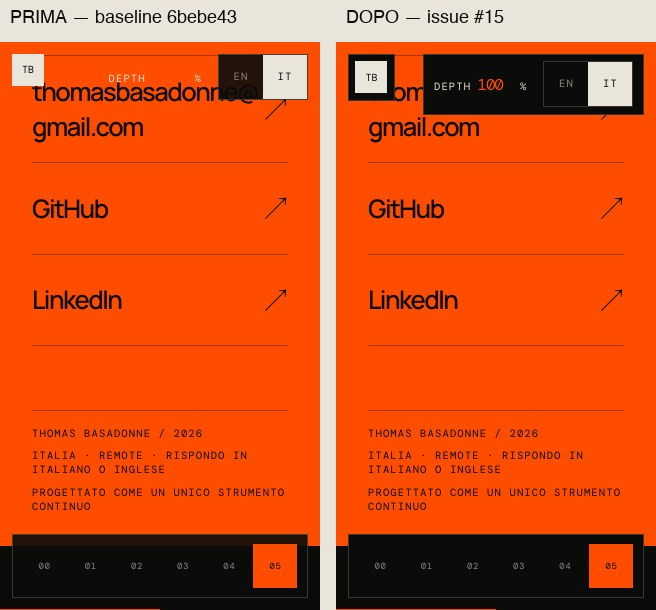
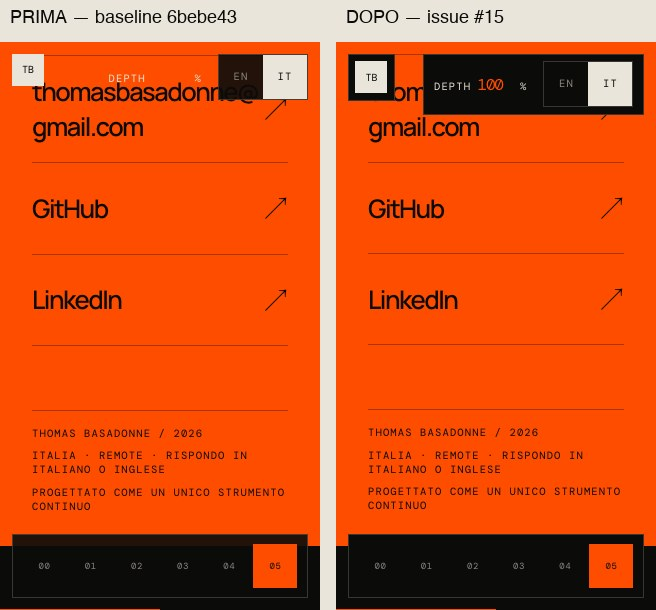
fix(hud): [verified] cover Linux colors and fallback layout

diff --git a/tests/e2e/portfolio.spec.ts b/tests/e2e/portfolio.spec.ts
@@ -6,6 +6,17 @@ async function bypassEntry(page: Page) {
   await page.addInitScript(() => window.sessionStorage.setItem("tb:entry-seen", "1"));
 }
 
+async function scrollToEnd(page: Page) {
+  await expect(page.locator(".hud__readout")).toBeVisible();
+  await page.evaluate(async () => {
+    // Let hydration's fragment navigation and optional font metrics settle first.
+    // Otherwise WebKit can replay #contact after our intentional bottom scroll.
+    await document.fonts.ready;
+    await new Promise<void>((resolve) => requestAnimationFrame(() => requestAnimationFrame(() => resolve())));
+    window.scrollTo({ top: document.body.scrollHeight, behavior: "instant" });
+  });
+}
+
 async function expectNoHorizontalOverflow(page: Page) {
   const overflow = await page.evaluate(
     () => document.documentElement.scrollWidth - document.documentElement.clientWidth,
@@ -283,7 +294,7 @@ for (const locale of ["en", "it"]) {
       await expectHudGeometry(page);
       await expectHudContrast(page, info, label);
     }
-    await page.evaluate(() => window.scrollTo({ top: document.body.scrollHeight, behavior: "instant" }));
+    await scrollToEnd(page);
     await expect(page.locator(".hud__readout strong")).toHaveText("100");
     for (const selector of [".chapter-nav a[href='#contact']", ".hud .lang-switch button[aria-pressed='false']", ".hud__identity"]) {
       const control = page.locator(selector);
@@ -310,13 +321,26 @@ for (const viewport of [
     await page.emulateMedia({ reducedMotion: "reduce" });
     await bypassEntry(page);
     await page.goto("/?lang=it#contact");
-    await page.evaluate(() => window.scrollTo({ top: document.body.scrollHeight, behavior: "instant" }));
+    await scrollToEnd(page);
     await expect(page.locator(".hud__readout strong")).toHaveText("100");
     await expectNoHorizontalOverflow(page);
     await expectHudGeometry(page);
     await expectHudContrast(page, info, `contact-${viewport.width}`);
   });
 }
+
+test("HUD contact fits at 320px when optional fonts fail", async ({ page }, info) => {
+  await page.setViewportSize({ width: 320, height: 568 });
+  await page.emulateMedia({ reducedMotion: "reduce" });
+  await page.route("**/fonts/**", (route) => route.abort());
+  await bypassEntry(page);
+  await page.goto("/?lang=it#contact");
+  await scrollToEnd(page);
+  await expect(page.locator(".hud__readout strong")).toHaveText("100");
+  await expectNoHorizontalOverflow(page);
+  await expectHudGeometry(page);
+  await expectHudContrast(page, info, "fallback-fonts-320");
+});
 
 for (const locale of ["en", "it"]) {
   test(`HUD fallback and drawer retain readable isolated chrome (${locale})`, async ({ page }, info) => {
@@ -325,11 +349,11 @@ for (const locale of ["en", "it"]) {
     await bypassEntry(page);
     await page.goto(`/?lang=${locale}#contact`);
     await expect(page.locator(".visual-status--failed")).toBeVisible();
-    await page.evaluate(() => window.scrollTo({ top: document.body.scrollHeight, behavior: "instant" }));
+    await scrollToEnd(page);
     await expect(page.locator(".hud__readout strong")).toHaveText("100");
-    for (const viewport of [{ width: 1280, height: 720 }, { width: 320, height: 568 }, { width: 667, height: 375 }]) {
+    for (const viewport of [{ width: 1280, height: 720 }, { width: 1024, height: 500 }, { width: 320, height: 568 }, { width: 667, height: 375 }]) {
       await page.setViewportSize(viewport);
-      await page.evaluate(() => window.scrollTo({ top: document.body.scrollHeight, behavior: "instant" }));
+      await scrollToEnd(page);
       await expect(page.locator(".hud__readout strong")).toHaveText("100");
       await expectHudGeometry(page);
       await expectHudContrast(page, info, `fallback-contact-${viewport.width}`);
@@ -350,9 +374,20 @@ test("HUD contact forced colors preserve text and keyboard focus", async ({ page
   await page.emulateMedia({ reducedMotion: "reduce", forcedColors: "active" });
   await bypassEntry(page);
   await page.goto("/?lang=it#contact");
-  await page.evaluate(() => window.scrollTo({ top: document.body.scrollHeight, behavior: "instant" }));
+  await scrollToEnd(page);
   await expect(page.locator(".hud__readout strong")).toHaveText("100");
   await expectHudGeometry(page);
+  const selectedColors = await page.locator(".hud .lang-switch button[aria-pressed='true']").evaluate((button) => {
+    const probe = document.createElement("span");
+    probe.style.cssText = "color: Canvas; background: CanvasText";
+    document.body.append(probe);
+    const expected = getComputedStyle(probe);
+    const actual = getComputedStyle(button);
+    const colors = { actual: [actual.color, actual.backgroundColor], expected: [expected.color, expected.backgroundColor] };
+    probe.remove();
+    return colors;
+  });
+  expect.soft(selectedColors.actual, "Use inverse Canvas colors: OS Highlight pairs can be below 4.5:1").toEqual(selectedColors.expected);
   await expectHudContrast(page, info, "forced-colors");
   const nav = page.locator(".chapter-nav a[href='#contact']");
   await page.keyboard.press("Tab");

diff --git a/src/styles/index.css b/src/styles/index.css
@@ -1523,6 +1523,14 @@ a.contact-link:focus-visible {
   }
 }
 
+/* Keep the fallback notice outside the desktop nav rail on short windows. */
+@media (min-width: 761px) and (max-height: 600px) {
+  .visual-status {
+    right: max(calc(var(--gutter) + 11rem), calc(env(safe-area-inset-right) + 11rem));
+    max-width: min(22rem, calc(100vw - 15rem));
+  }
+}
+
 /* Mobile reinterpretation */
 
 @media (max-width: 760px) {
@@ -1780,7 +1788,7 @@ a.contact-link:focus-visible {
   }
 
   .story-section__content--contact h2 {
-    font-size: clamp(3.8rem, 16vw, 6rem);
+    font-size: clamp(3.2rem, 16vw, 6rem);
   }
 
   .contact-link {
@@ -2010,13 +2018,13 @@ a.contact-link:focus-visible {
 
   .hud .lang-switch button[aria-pressed="true"],
   .hud .chapter-nav a.is-active {
-    color: HighlightText;
-    background: Highlight;
+    color: Canvas;
+    background: CanvasText;
   }
 
   .hud .lang-switch button[aria-pressed="true"]:focus-visible,
   .hud .chapter-nav a.is-active:focus-visible {
-    outline-color: HighlightText;
+    outline-color: Canvas;
   }
 
   a,

diff --git a/tests/e2e/hud-contrast.ts b/tests/e2e/hud-contrast.ts
@@ -85,6 +85,7 @@ export async function expectHudContrast(page: Page, info: TestInfo, label: strin
 }
 
 export async function expectHudGeometry(page: Page) {
+  await page.evaluate(() => new Promise<void>((resolve) => requestAnimationFrame(() => requestAnimationFrame(() => resolve()))));
   const boxes = await page.locator(".hud__identity, .hud__readout, .hud .lang-switch, .chapter-nav, .visual-status--failed").evaluateAll((elements) => elements.map((element) => {
     const { x, y, right, bottom, width, height } = element.getBoundingClientRect();
     return { name: element.className, x, y, right, bottom, width, height };

diff --git a/docs/evidence/issue-15/README.md b/docs/evidence/issue-15/README.md
@@ -79,15 +79,16 @@ The automated suite also retains the equivalent 720 × 450 reflow regression cas
 ## Executed verification
 
 - `pnpm check`: passed (typecheck, lint, 14 unit tests, build, bundle and link/CSP checks).
-- Same final HUD battery against the baseline: **22 failures** on Chromium/WebKit,
+- Same final HUD battery against the baseline: **24 failures** on Chromium/WebKit,
   with contrast assertions reproducing the bug (not browser-launch failures).
-- Same final HUD battery against the fix: **22 passed** on Chromium/WebKit.
-- Full Chromium/WebKit suite: **55 passed, 1 expected skip** (WebGL context-loss
+- Same final HUD battery against the fix: **24 passed** on Chromium/WebKit.
+- Full Chromium/WebKit suite: **57 passed, 1 expected skip** (WebGL context-loss
   injection is Chromium-only).
 - Browser zoom 200%: passed in EN/IT, including screenshot review.
 - The tests cover graphite, bone, contact start/boundary/middle/end and reverse
   scroll, DOM value agreement with progress, hover/focus, forced colors, six
-  desktop/mobile/reflow viewports, WebGL failure and keyboard drawer open/close.
+  desktop/mobile/reflow viewports, optional font failure at 320px, WebGL failure
+  (including short desktop windows) and keyboard drawer open/close.
 - `git diff --check`: passed.
 
 ### Re-run
@@ -112,9 +113,24 @@ The repository's Linux CI still runs all three engines; its result must be read
 from the PR, separately from these local Chromium/WebKit results. Physical iOS
 hardware and arbitrary OS high-contrast palettes are not certified by emulation.
 
+## CI follow-up
+
+The initial Linux CI exposed two platform/layout differences and a fallback-font
+case not visible in the first local run. WebKit Linux's `HighlightText` / `Highlight`
+pair measured only **3.772361:1**. Selected HUD controls now use inverse `Canvas` /
+`CanvasText` surfaces, retaining the OS palette without relying on that pair.
+A short desktop fallback notice is horizontally offset from the navigation rail.
+The Italian contact heading's minimum mobile size is reduced from 3.8rem to 3.2rem:
+with blocked optional fonts, “Costruiamo” otherwise painted 3px beyond a 320px
+viewport even though no element box overflowed. The new font-failure test failed
+on the previous CSS and passes with the smaller heading; no copy is removed.
+Browser test setup also settles fragment hydration and font metrics before the
+intentional bottom scroll, avoiding a WebKit navigation/reflow race.
+
 ## Scope and risk
 
 Production changes are CSS-only and scoped to chrome surfaces, focus treatment,
-and fallback/landscape clearance. `Hud.tsx`, `PortfolioStory.tsx`, professional
+and fallback/landscape clearance, plus the narrow contact-heading minimum.
+`Hud.tsx`, `PortfolioStory.tsx`, professional
 copy, DEPTH semantics and the controller remain unchanged. Rollback is a revert
 of the CSS change; there is no data migration or persistence change.
